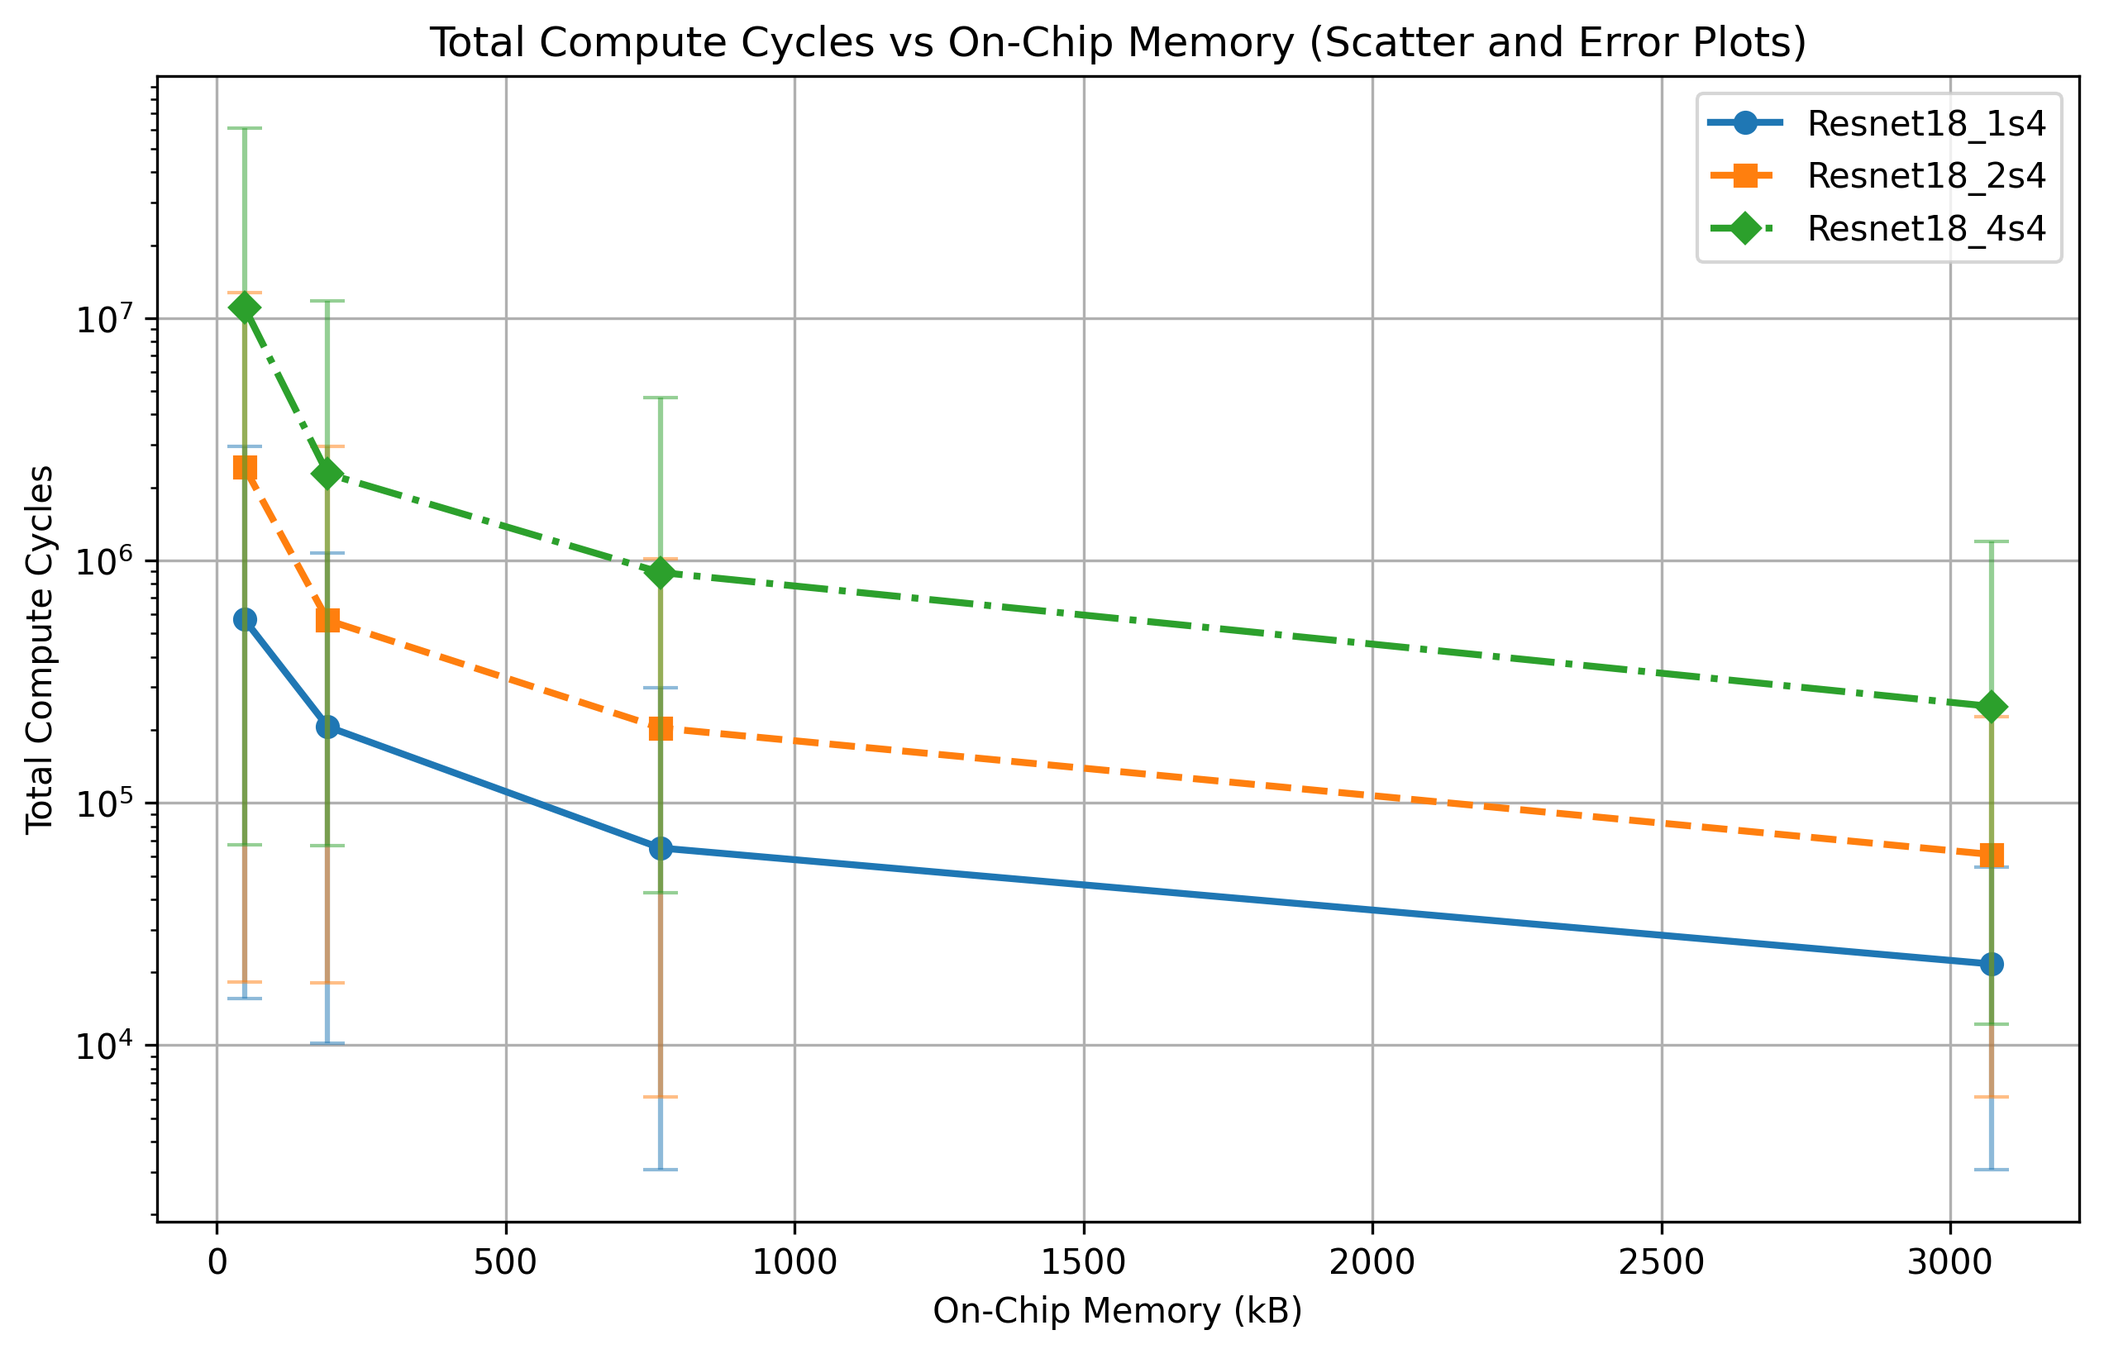
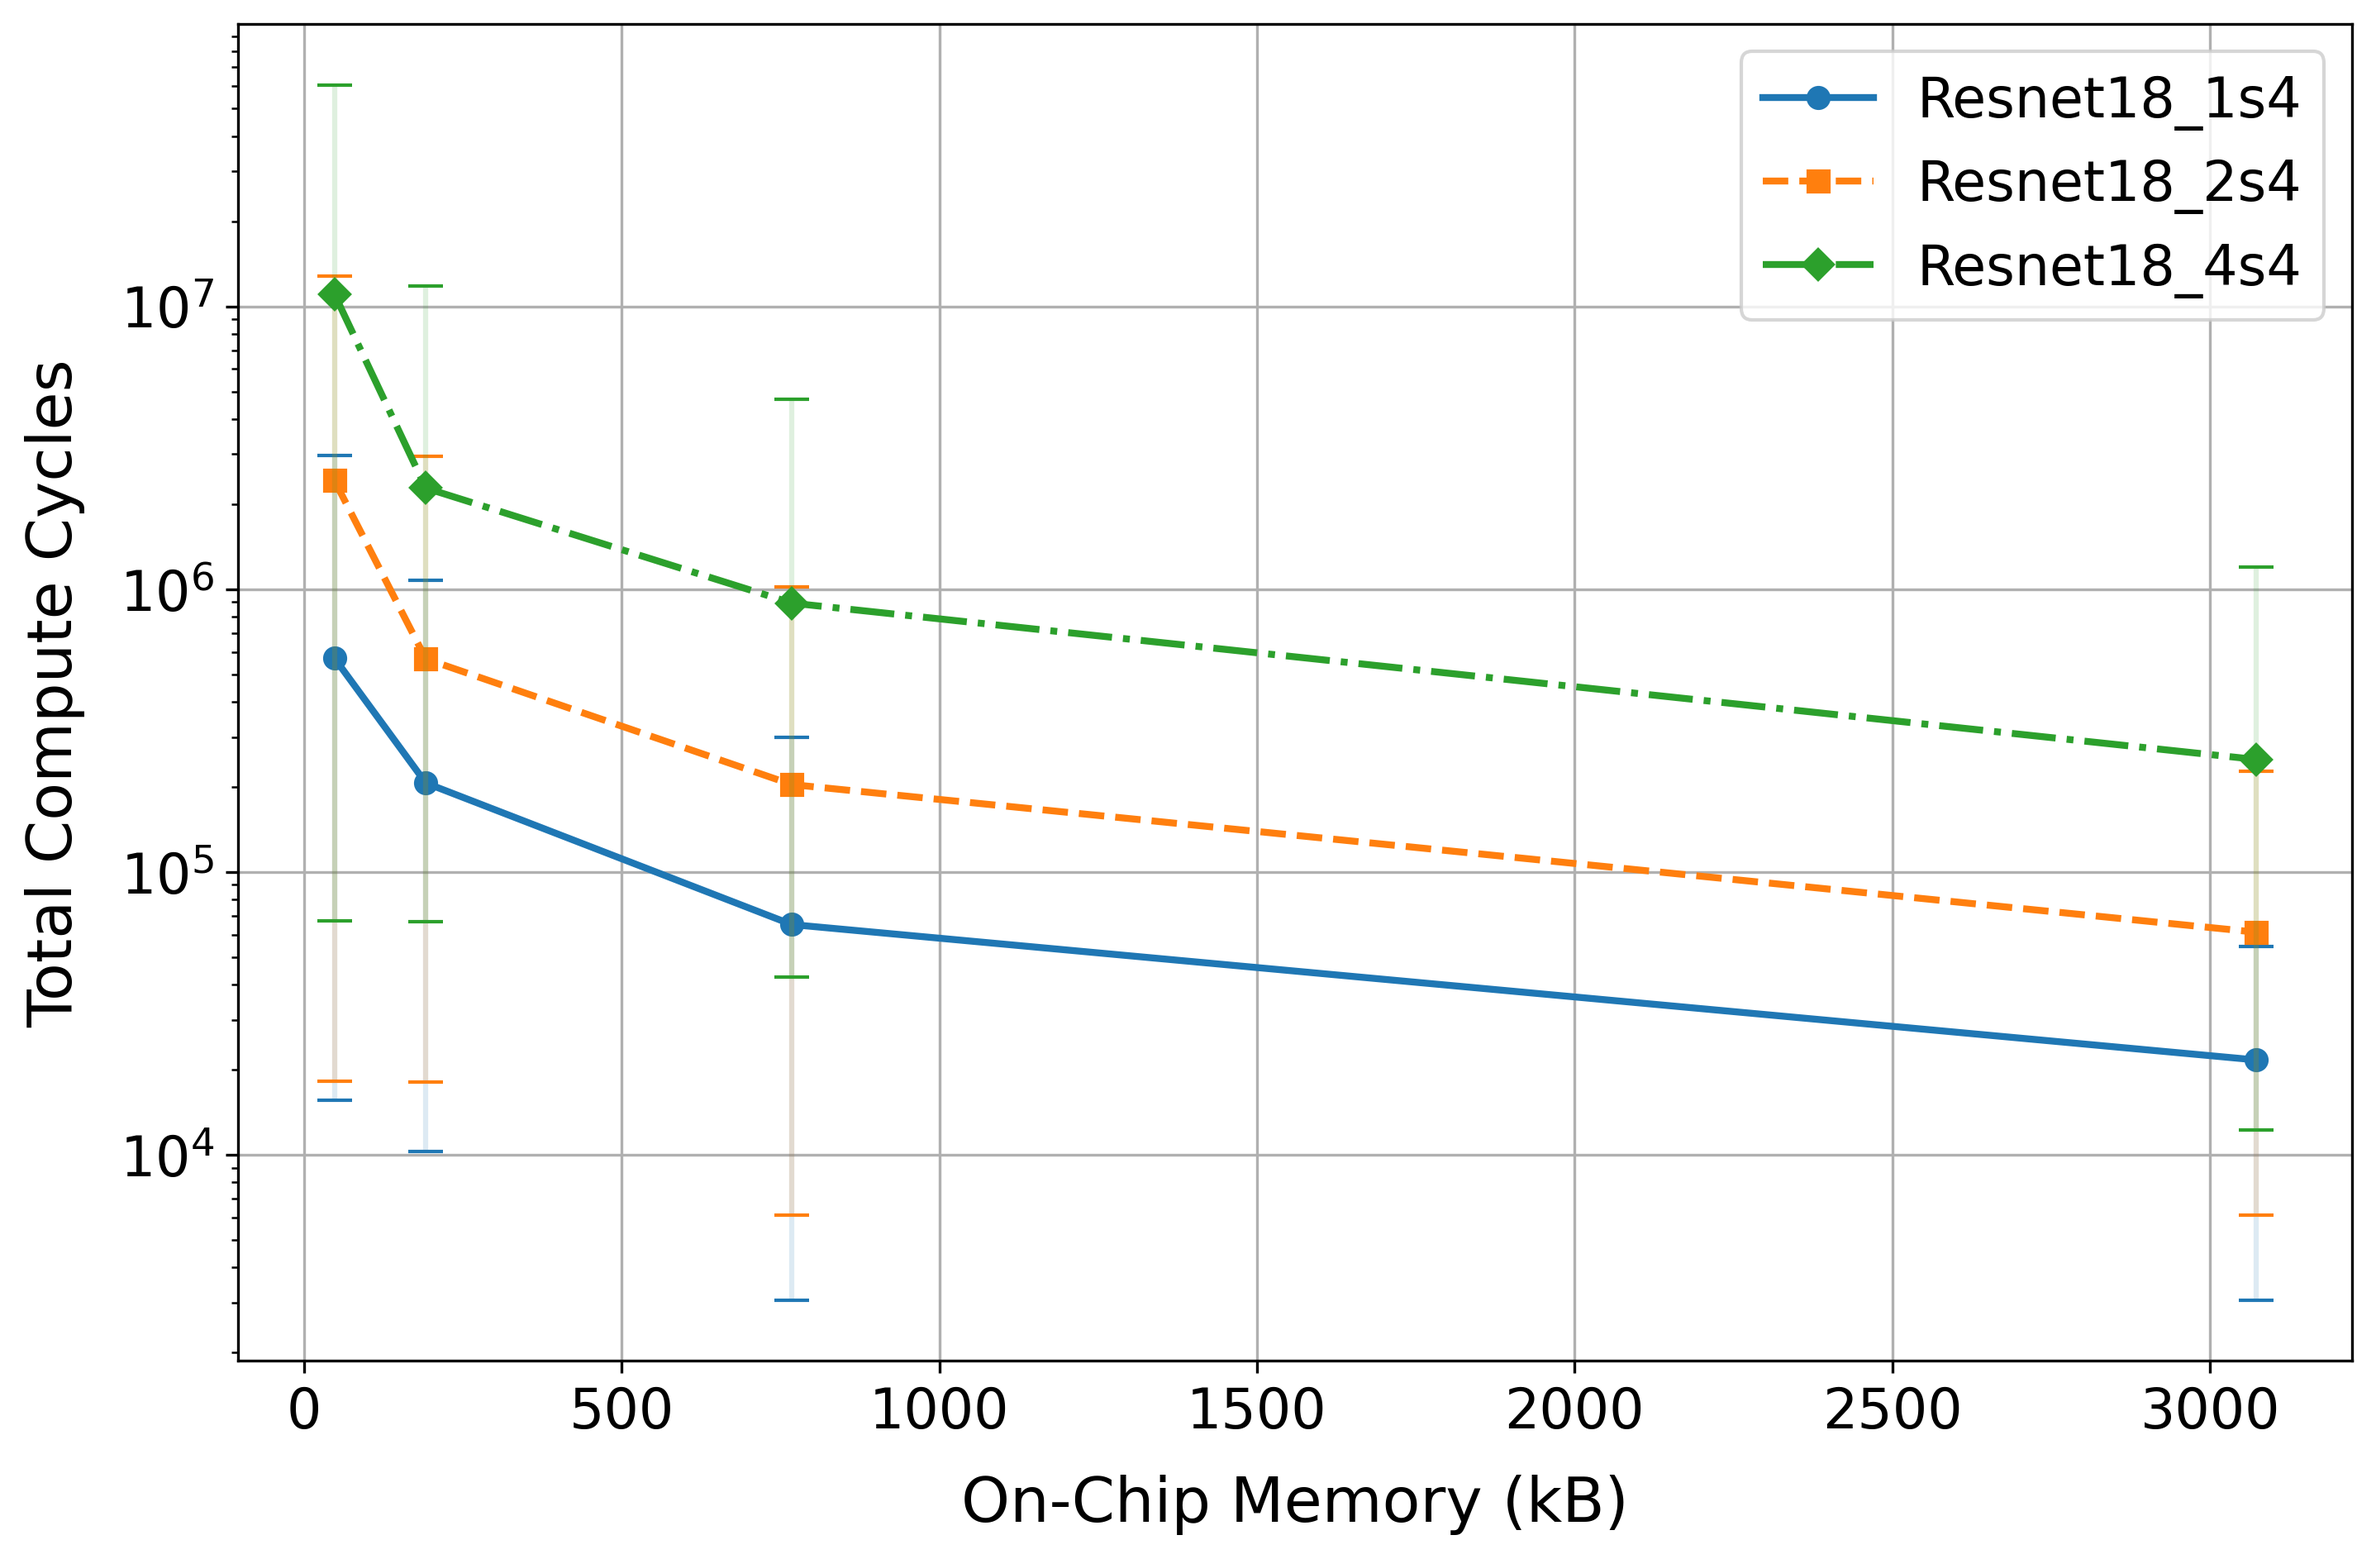
large font graphs

diff --git a/sparsesim/computecyclesplot_128x128.py b/sparsesim/computecyclesplot_128x128.py
@@ -180,10 +180,78 @@ def plot_cycles_new(on_chip_memory_sizes, cycles_dict, conv_groups):
     plt.grid(True)
     plt.show()
 
-# Function to plot scatter and error plots
+# # Function to plot scatter and error plots
+# def plot_cycles_alpha(on_chip_memory_sizes, cycles_dict, conv_groups):
+#     # Set up figure
+#     plt.figure(figsize=(10, 6))
+
+#     # Predefined line styles and markers
+#     line_styles = ['-', '--', '-.', ':']
+#     markers = ['o', 's', 'D', '^', 'v', 'p', 'P', '*', 'x', '+']
+
+#     # Loop over each model and sparsity combination and plot
+#     for i, (model_size_sparsity, cycles_by_memory) in enumerate(cycles_dict.items()):
+#         # Extract the means and standard deviations for each memory size
+#         means = [np.mean(list(cycles.values())) for cycles in cycles_by_memory]
+#         positive_errors = [max(list(cycles.values())) - np.mean(list(cycles.values())) for cycles in cycles_by_memory]
+#         negative_errors = [np.mean(list(cycles.values())) - min(list(cycles.values())) for cycles in cycles_by_memory]
+#         asymmetric_errors = [negative_errors, positive_errors]
+
+#         # Use a unique color, line style, and marker for each model
+#         color = f"C{i % 10}"  # Use default color cycle
+#         line_style = line_styles[i % len(line_styles)]
+#         marker = markers[i % len(markers)]
+
+#         # Add a slight horizontal offset to avoid overlap (only for visualization)
+#         x_offsets = np.linspace(-0.02, 0.02, len(cycles_dict))  # Small offset range
+#         x_values = [x + x_offsets[i] for x in on_chip_memory_sizes]
+
+#         # Plot fully opaque line connecting markers
+#         plt.plot(
+#             x_values, 
+#             means, 
+#             linestyle=line_style, 
+#             marker=marker, 
+#             label=model_size_sparsity, 
+#             linewidth=2, 
+#             markersize=6, 
+#             alpha=1.0, 
+#             color=color
+#         )
+
+#         # Plot semi-transparent vertical error bars
+#         plt.errorbar(
+#             x_values, 
+#             means, 
+#             yerr=asymmetric_errors, 
+#             fmt='none', 
+#             capsize=5, 
+#             elinewidth=1.5, 
+#             alpha=0.3, 
+#             color=color
+#         )
+
+#         # Plot individual points (scatter) for each conv group
+#         # for i, memory in enumerate(on_chip_memory_sizes):
+#         #     for conv_group in conv_groups:
+#         #         plt.scatter(memory, cycles_by_memory[i][conv_group], alpha=0.3)
+
+#     # Set x-axis to log scale
+#     # plt.xscale('log')
+#     plt.yscale('log')
+#     plt.xlabel("On-Chip Memory (kB)")
+#     plt.ylabel("Total Compute Cycles")
+#     plt.title("Total Compute Cycles vs On-Chip Memory (Scatter and Error Plots)")
+#     plt.legend()
+#     plt.grid(True)
+#     plt.savefig('lws_resnet18_computecycles.png', dpi=300, bbox_inches='tight', format='png')
+#     # plt.show()
+
 def plot_cycles_alpha(on_chip_memory_sizes, cycles_dict, conv_groups):
+    import matplotlib.collections as mcoll  # For accessing LineCollection objects
+
     # Set up figure
-    plt.figure(figsize=(10, 6))
+    plt.figure(figsize=(11, 7))
 
     # Predefined line styles and markers
     line_styles = ['-', '--', '-.', ':']
@@ -219,33 +287,36 @@ def plot_cycles_alpha(on_chip_memory_sizes, cycles_dict, conv_groups):
             color=color
         )
 
-        # Plot semi-transparent vertical error bars
-        plt.errorbar(
+        # Plot error bars
+        errbar = plt.errorbar(
             x_values, 
             means, 
             yerr=asymmetric_errors, 
             fmt='none', 
             capsize=5, 
             elinewidth=1.5, 
-            alpha=0.5, 
             color=color
         )
 
-        # Plot individual points (scatter) for each conv group
-        # for i, memory in enumerate(on_chip_memory_sizes):
-        #     for conv_group in conv_groups:
-        #         plt.scatter(memory, cycles_by_memory[i][conv_group], alpha=0.3)
+        # Separate control over vertical lines and caps
+        for line in errbar[2]:  # Vertical error bar lines
+            line.set_alpha(0.15)  # Set alpha for vertical lines
+
+        for cap in errbar[1]:  # Horizontal cap lines
+            cap.set_alpha(1)  # Set alpha for horizontal caps
 
     # Set x-axis to log scale
-    # plt.xscale('log')
     plt.yscale('log')
-    plt.xlabel("On-Chip Memory (kB)")
-    plt.ylabel("Total Compute Cycles")
-    plt.title("Total Compute Cycles vs On-Chip Memory (Scatter and Error Plots)")
-    plt.legend()
+    plt.xlabel("On-Chip Memory (kB)", fontsize=18, labelpad=10)
+    plt.ylabel("Total Compute Cycles", fontsize=18, labelpad=10)
+    # plt.title("Total Compute Cycles vs On-Chip Memory (Scatter and Error Plots)")
+    plt.xticks(fontsize=16)
+    plt.yticks(fontsize=16)
+    plt.legend(fontsize=16)
     plt.grid(True)
     plt.savefig('lws_resnet18_computecycles.png', dpi=300, bbox_inches='tight', format='png')
     # plt.show()
+
 
 if __name__ == '__main__':
     models = ['Resnet18'] # ['resnet18', 'alexnet']

diff --git a/sparsesim/memoryplot.py b/sparsesim/memoryplot.py
@@ -136,14 +136,21 @@ def plot_combined_storage_style1(layers, dense_storage, sparse_filter_1s4, spars
     ax.bar(index + 3 * bar_width, sparse_metadata_3s4, bar_width, bottom=sparse_filter_3s4, label='Sparse Metadata (3:4)', color=color_sparse_metadata_3s4, edgecolor='black')
 
     # Labels, title, legend
-    ax.set_xlabel('Layers')
-    ax.set_ylabel('Memory Size (Words)')
-    ax.set_title(f'{title_prefix}: Memory Storage Comparison: Dense vs 1:4 vs 2:4 vs 3:4')
-    ax.set_xticks(index + bar_width)
-    ax.set_xticklabels(layers, rotation=45, ha="right")
-    ax.legend()
+    ax.set_xlabel('Layers', fontsize=20)
+    ax.set_ylabel('Memory Size (Words)', fontsize=20)
+    # ax.set_title(f'{title_prefix}: Memory Storage Comparison: Dense vs 1:4 vs 2:4 vs 3:4', fontsize=18)
 
+    # Set tick labels with the desired font size and rotation
+    ax.set_xticks(index + bar_width)
+    ax.set_xticklabels(layers, rotation=45, ha="right", fontsize=18)
+    ax.tick_params(axis='y', labelsize=18)  # Y-axis tick labels
+
+    # Set legend font size
+    ax.legend(fontsize=18)
+
+    # Adjust layout, save and show plot
     plt.tight_layout()
+    plt.savefig('memoryplot1.png', dpi=300, bbox_inches='tight', format='png')
     plt.show()
 
 # Function to plot the stacked bar chart with better colors and hatching
